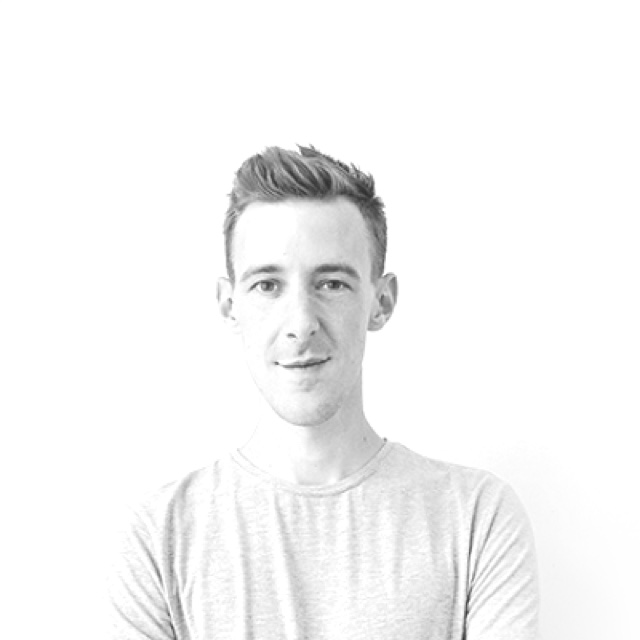
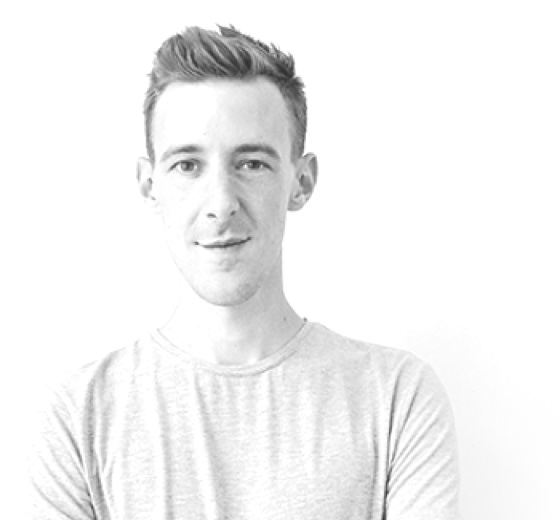
Add profile photo

Changed region(s): [[0.0607, 0.0308, 0.8196, 1.0], [0.425, 0.7692, 0.5161, 1.0]]

diff --git a/css/style.css b/css/style.css
@@ -1,12 +1,15 @@
 html, body {
   height: 100%;
+
+  background-color: white;
+  color: black;
 }
 
 body {
   margin: 0;
-  max-width: 32em;
-  margin: 48px auto;
-  padding: 24px;
+  /* max-width: 32em; */
+  margin: 0 auto;
+  padding: 0;
   font-size: 14px;
   line-height: 1.5;
   font-family: 'bitstream_vera_sans_monoroman', Menlo, monospace;
@@ -20,9 +23,29 @@ p {
   margin: 16px 0;
 }
 
+.cover {
+  display: flex;
+  flex-direction: row;
+  justify-content: center;
+  align-items: center;
+
+  padding: 120px 24px 0;
+
+  border-bottom: 1px solid black;
+}
+
+.cover__info {
+  max-width: 32em;
+}
+
 @media only screen and (max-width : 768px) {
   body {
     font-size: 16px;
     margin: 0 auto;
+  }
+
+  .cover {
+    flex-direction: column-reverse;
+    padding: 48px 24px 0;
   }
 }

diff --git a/index.html b/index.html
@@ -17,7 +17,8 @@
 
 
   <div class="cover">
-    <div>
+    <img src="img/me.jpg" width="280" height="260" />
+    <div class="cover__info">
       <p># Antony Jan Orant</h1>
       <p>
         I'm a multi-disciplinary designer based in Berlin.<br/>
